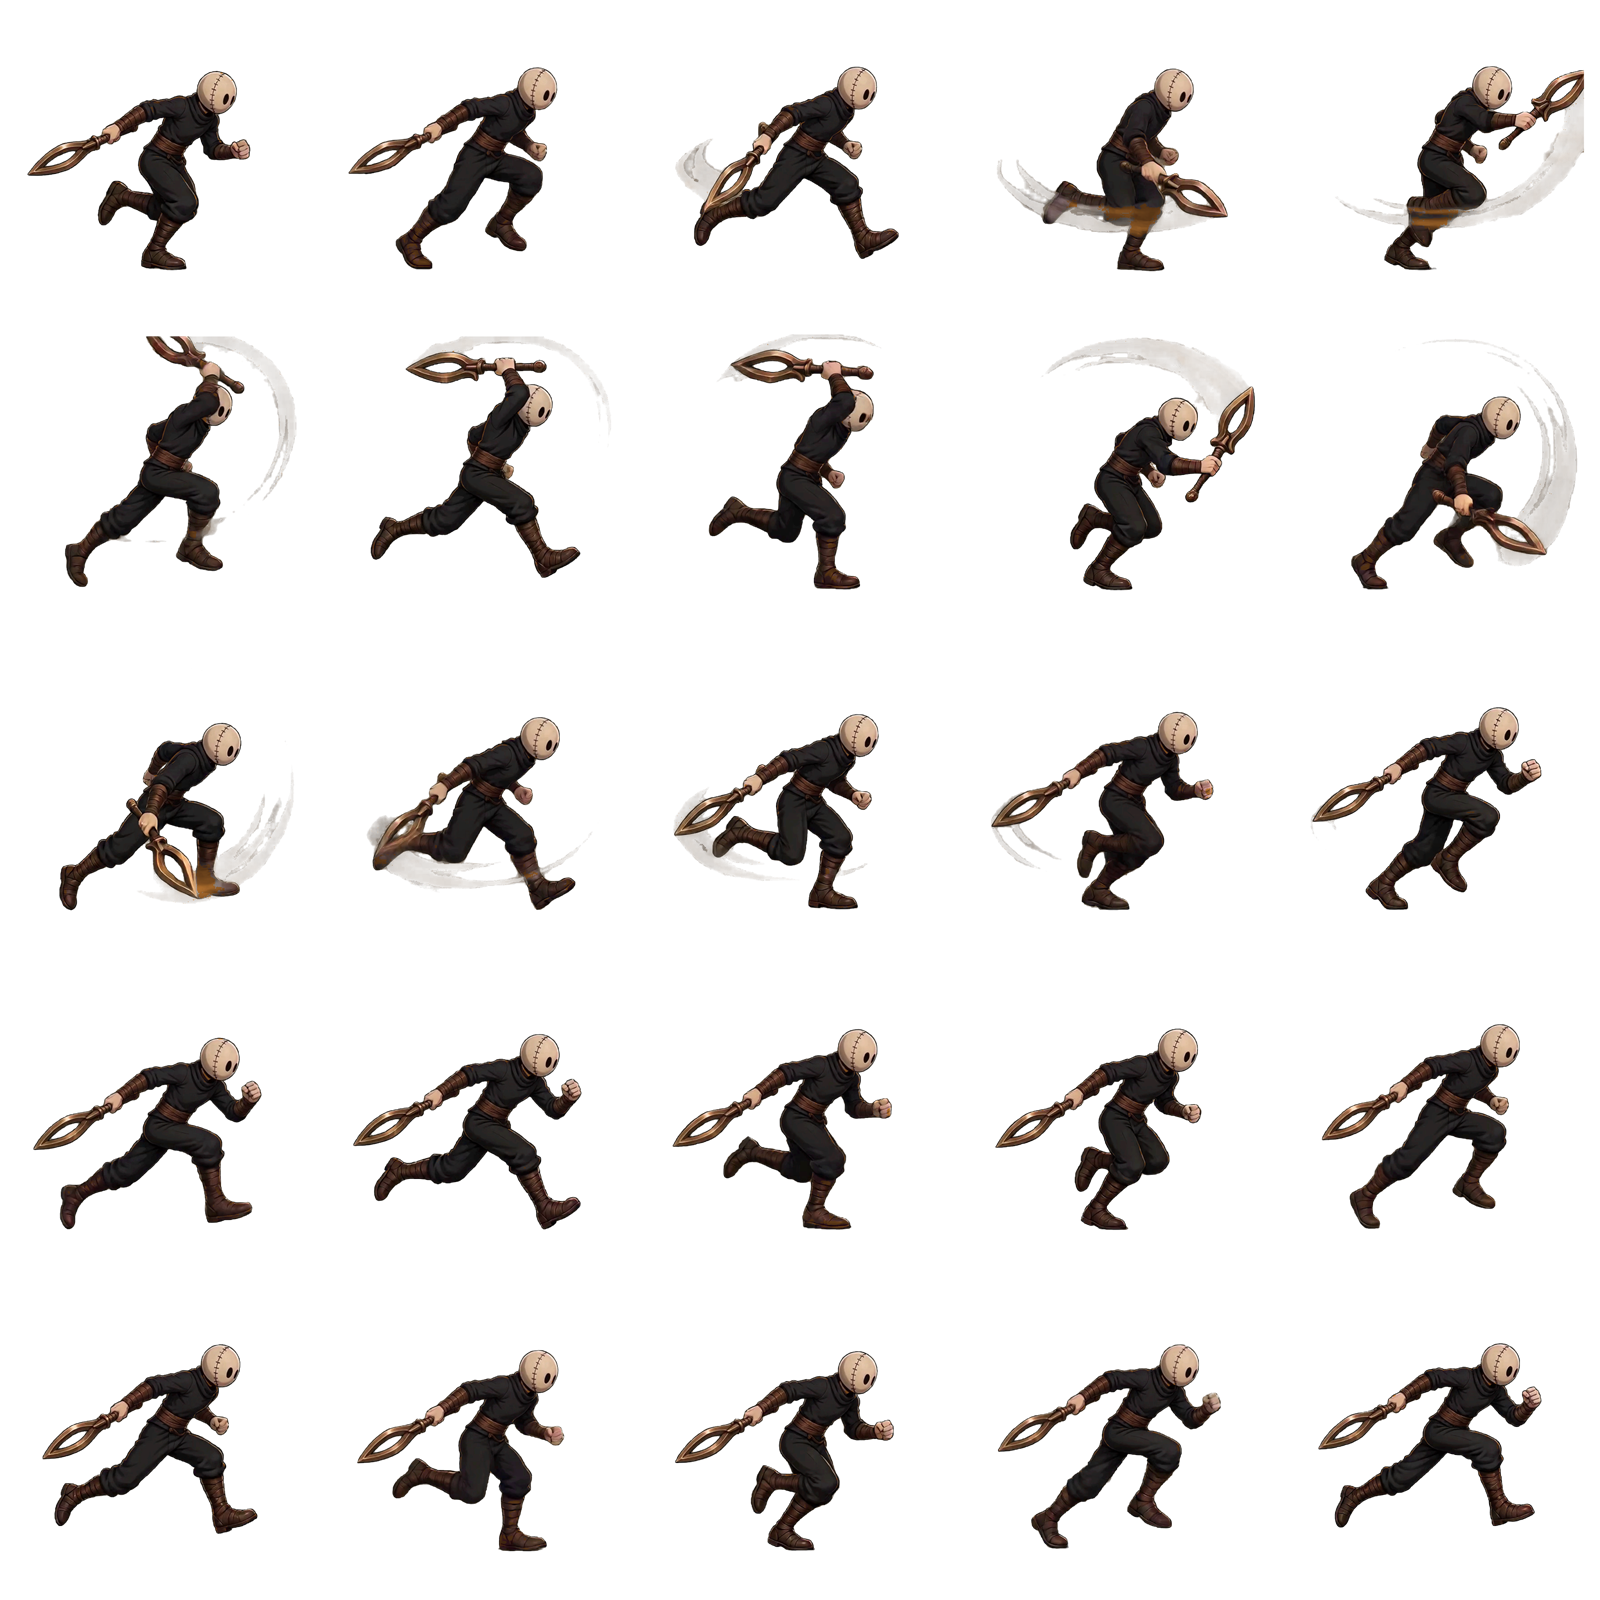
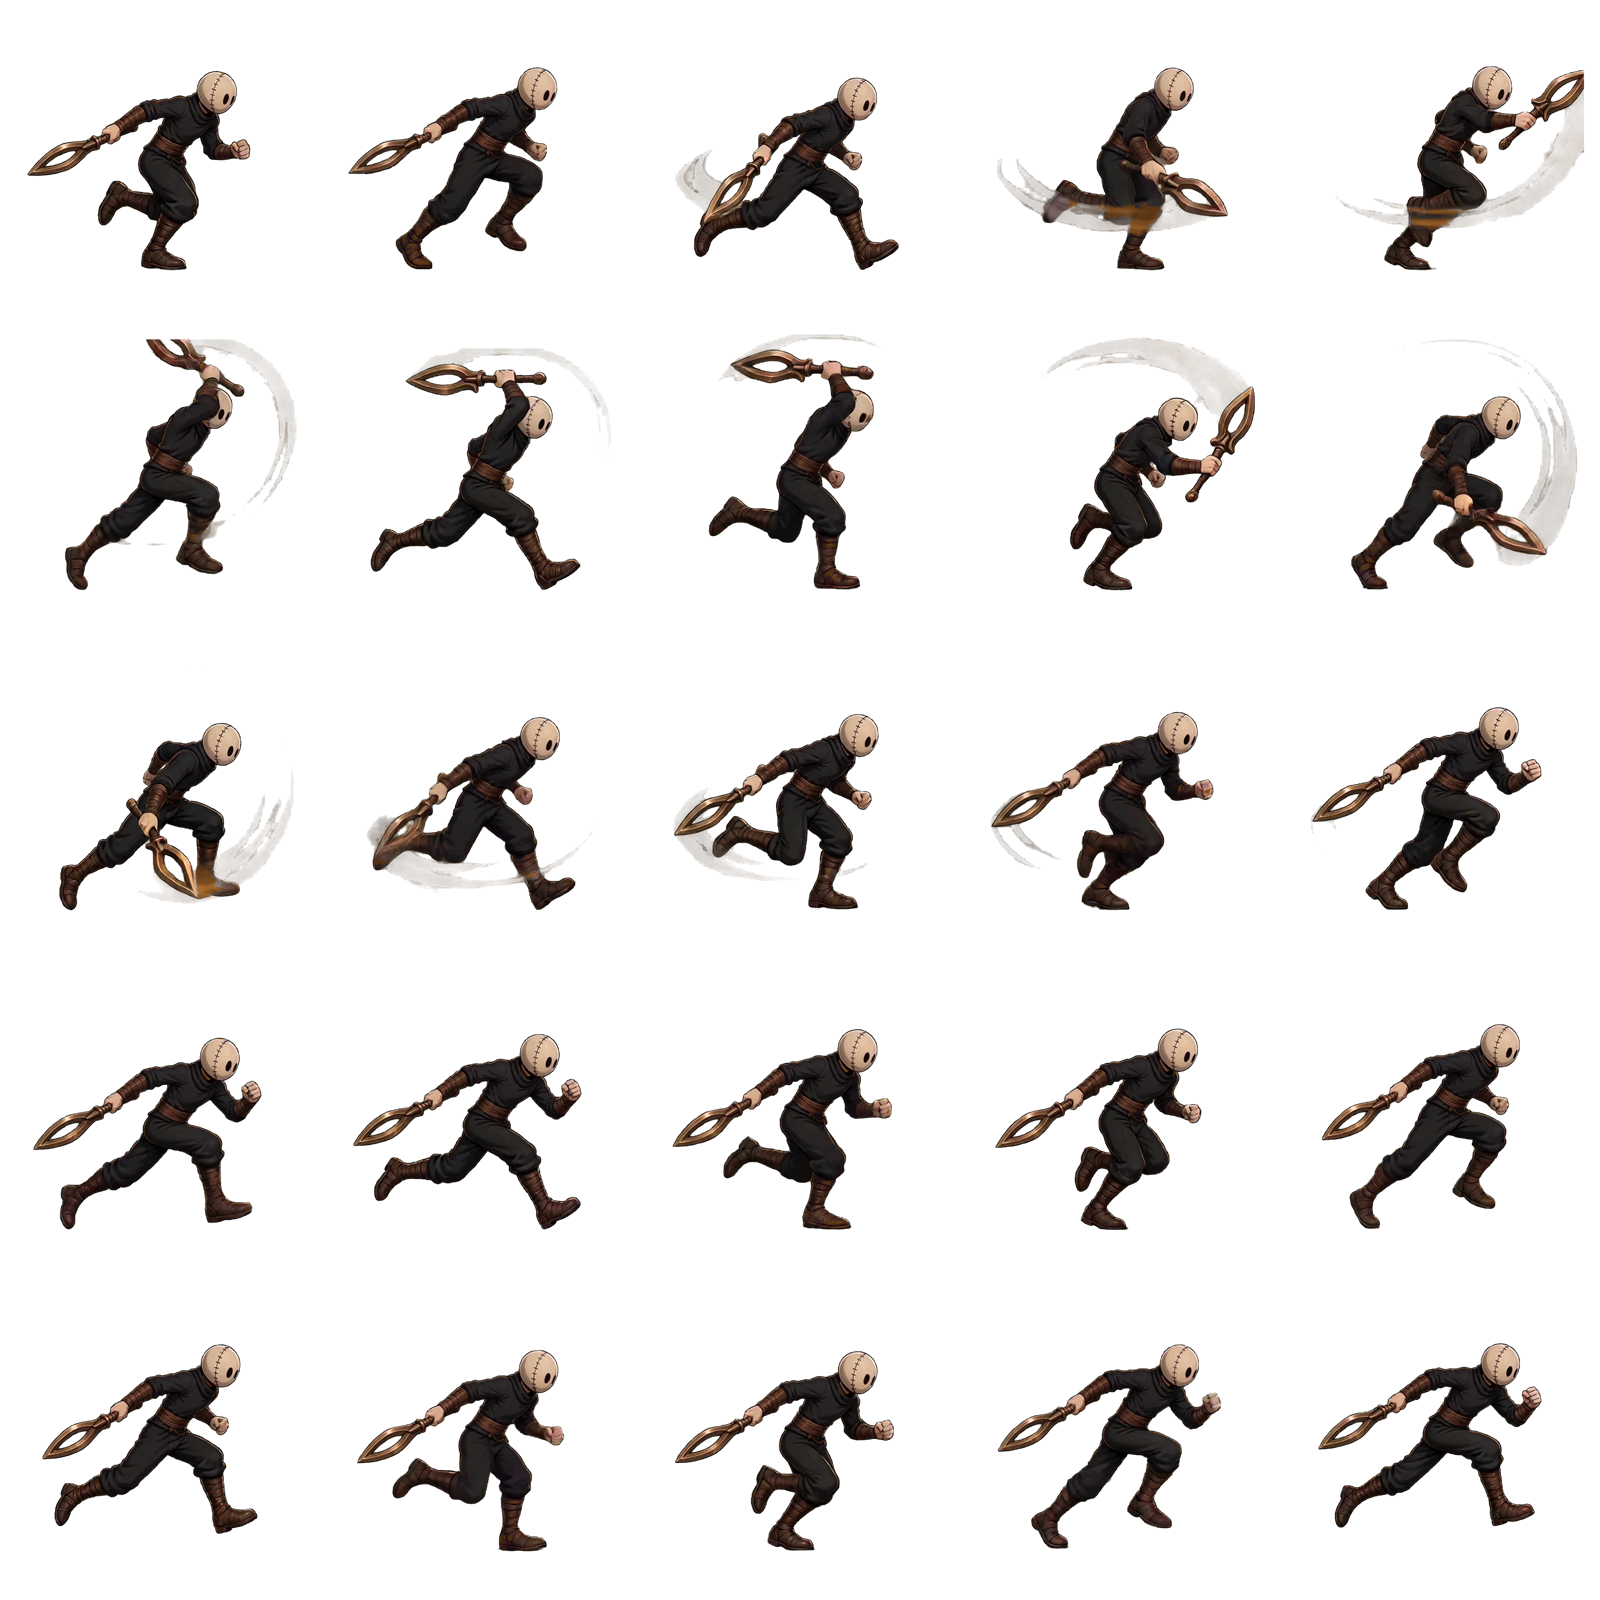
fix: smooth moving attack frame progression

diff --git a/docs/art/player_animation_normalization.md b/docs/art/player_animation_normalization.md
@@ -35,20 +35,19 @@ transparent sheet cells:
 | Ground forward | 0.75 | 512 px |
 | Neutral special | 0.675 | 512 px |
 | Ground combo opener | 0.90 | 320 px |
-| Ground combo finisher | 0.6428571, rendered at 1.40 | 320 px |
+| Ground combo finisher | 0.90 | 320 px |
 | Stationary double hit | 0.90, rendered at 1.40 | 320 px |
 | Backpedal combo variants | 1.15, rendered at 1.25 | 320 px |
 | Air double attack | 1.20 | 416 px |
 
 The air double attack uses a 416 px runtime cell, leaving a 16 px gutter around
-its 384 px rendered source. The moving finisher, stationary double hit, and
-backpedal variants use the runtime presentation multipliers listed above; other
-animation families retain a `1.0` visual multiplier.
+its 384 px rendered source. The stationary double hit and backpedal variants use
+the runtime presentation multipliers listed above; the moving combo family and
+other animation families retain a `1.0` visual multiplier.
 
-The `ground_combo_01` sheet is restored to the established 320 px runtime atlas.
-Its content is baked at `0.6428571`, then displayed at a `1.40` visual
-multiplier during the moving finisher. This produces the approved larger
-screen-space character without changing Godot's atlas cell format.
+Both moving combo steps use the consistently scaled `ground_combo_02` atlas.
+The older `ground_combo_01` atlas remains as authoring reference, but is no
+longer active in the player `SpriteFrames`.
 
 ### Runtime memory budget
 
@@ -70,12 +69,16 @@ repeated sprinting foot cycle.
 
 ### Forward pseudo three-hit chain
 
-The forward chain uses the authored sheets in reverse numerical order:
+The forward chain uses two cuts from the cleaner `ground_combo_02.png` atlas:
 
-- `ground_combo_02.png` is the logical `Ground_Attack_Combo_1` opener. It has
-  14 curated frames and one damaging strike on runtime frames 3-5.
-- `ground_combo_01.png` is the logical `Ground_Attack_Combo_2` finisher. It has
-  19 curated frames and damaging strikes on runtime frames 2-4 and 9-11.
+- `Ground_Attack_Combo_1` is a 14-frame overhead cut using source cells 0, 1,
+  2, and 5-15. Restoring cells 2, 5, and 6 supplies the missing run
+  anticipation and weapon lift before its damaging strike on runtime frames
+  3-5.
+- `Ground_Attack_Combo_2` is a 19-frame double sweep using source cells 0, 1,
+  3, 4, 4, 5, 6, 7, 8, 8, 9, 9, and 10-16. The repeated cells are intentional
+  two-frame impact holds aligned with the existing damaging windows on runtime
+  frames 2-4 and 9-11.
 
 Pressing attack again during the opener or within the 0.45-second reset window
 plays the two-hit finisher, creating a three-hit sequence. Waiting beyond that
